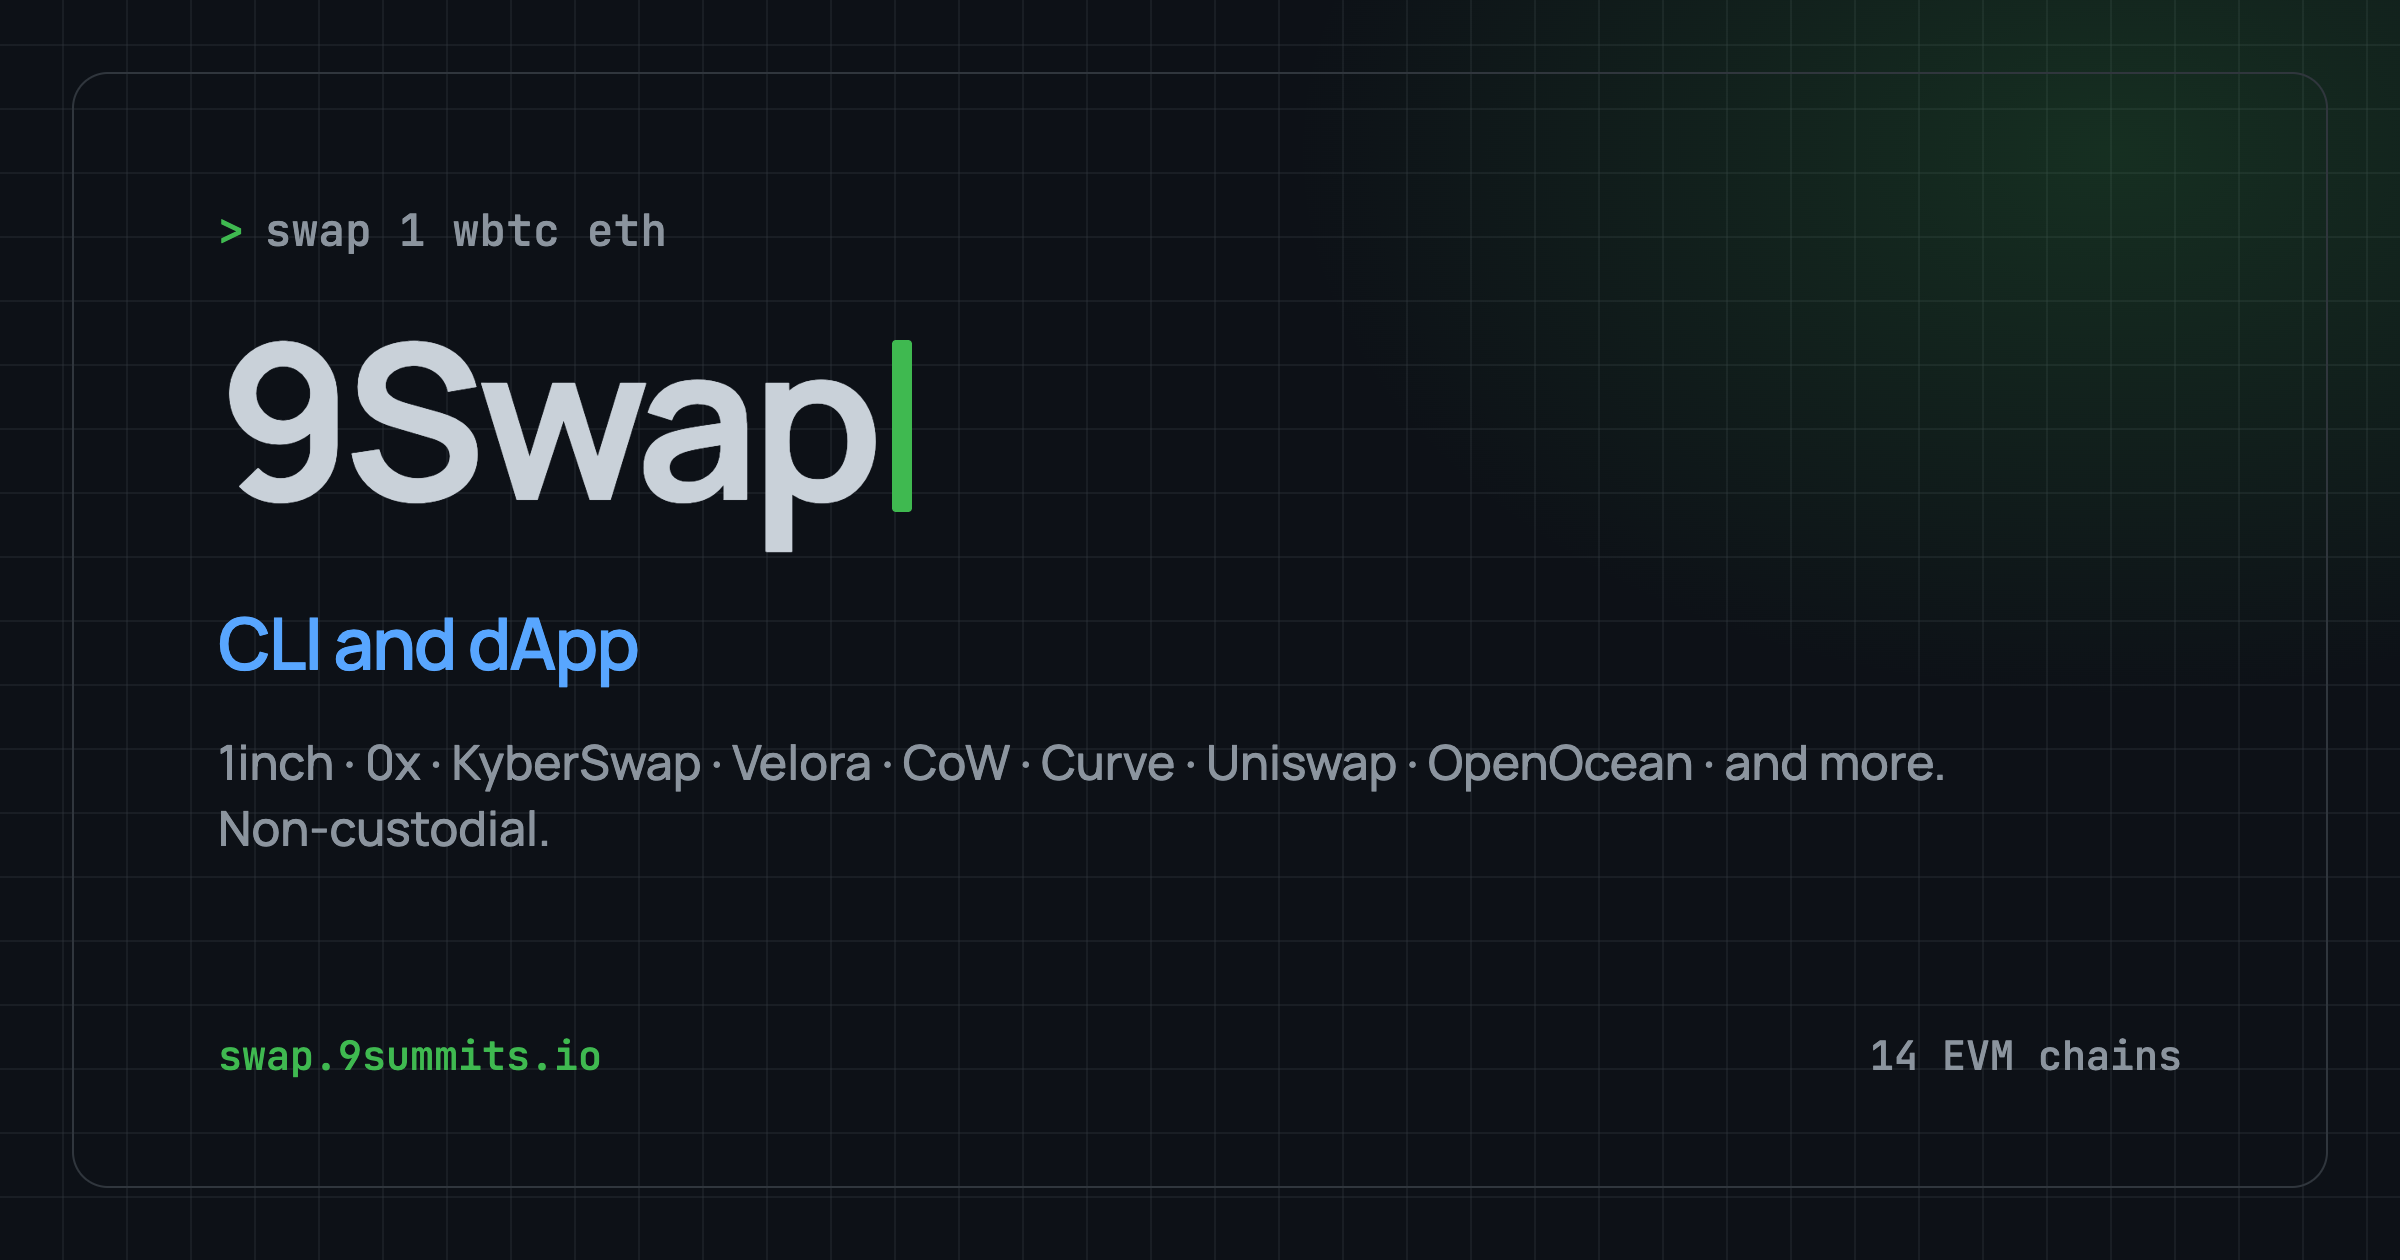
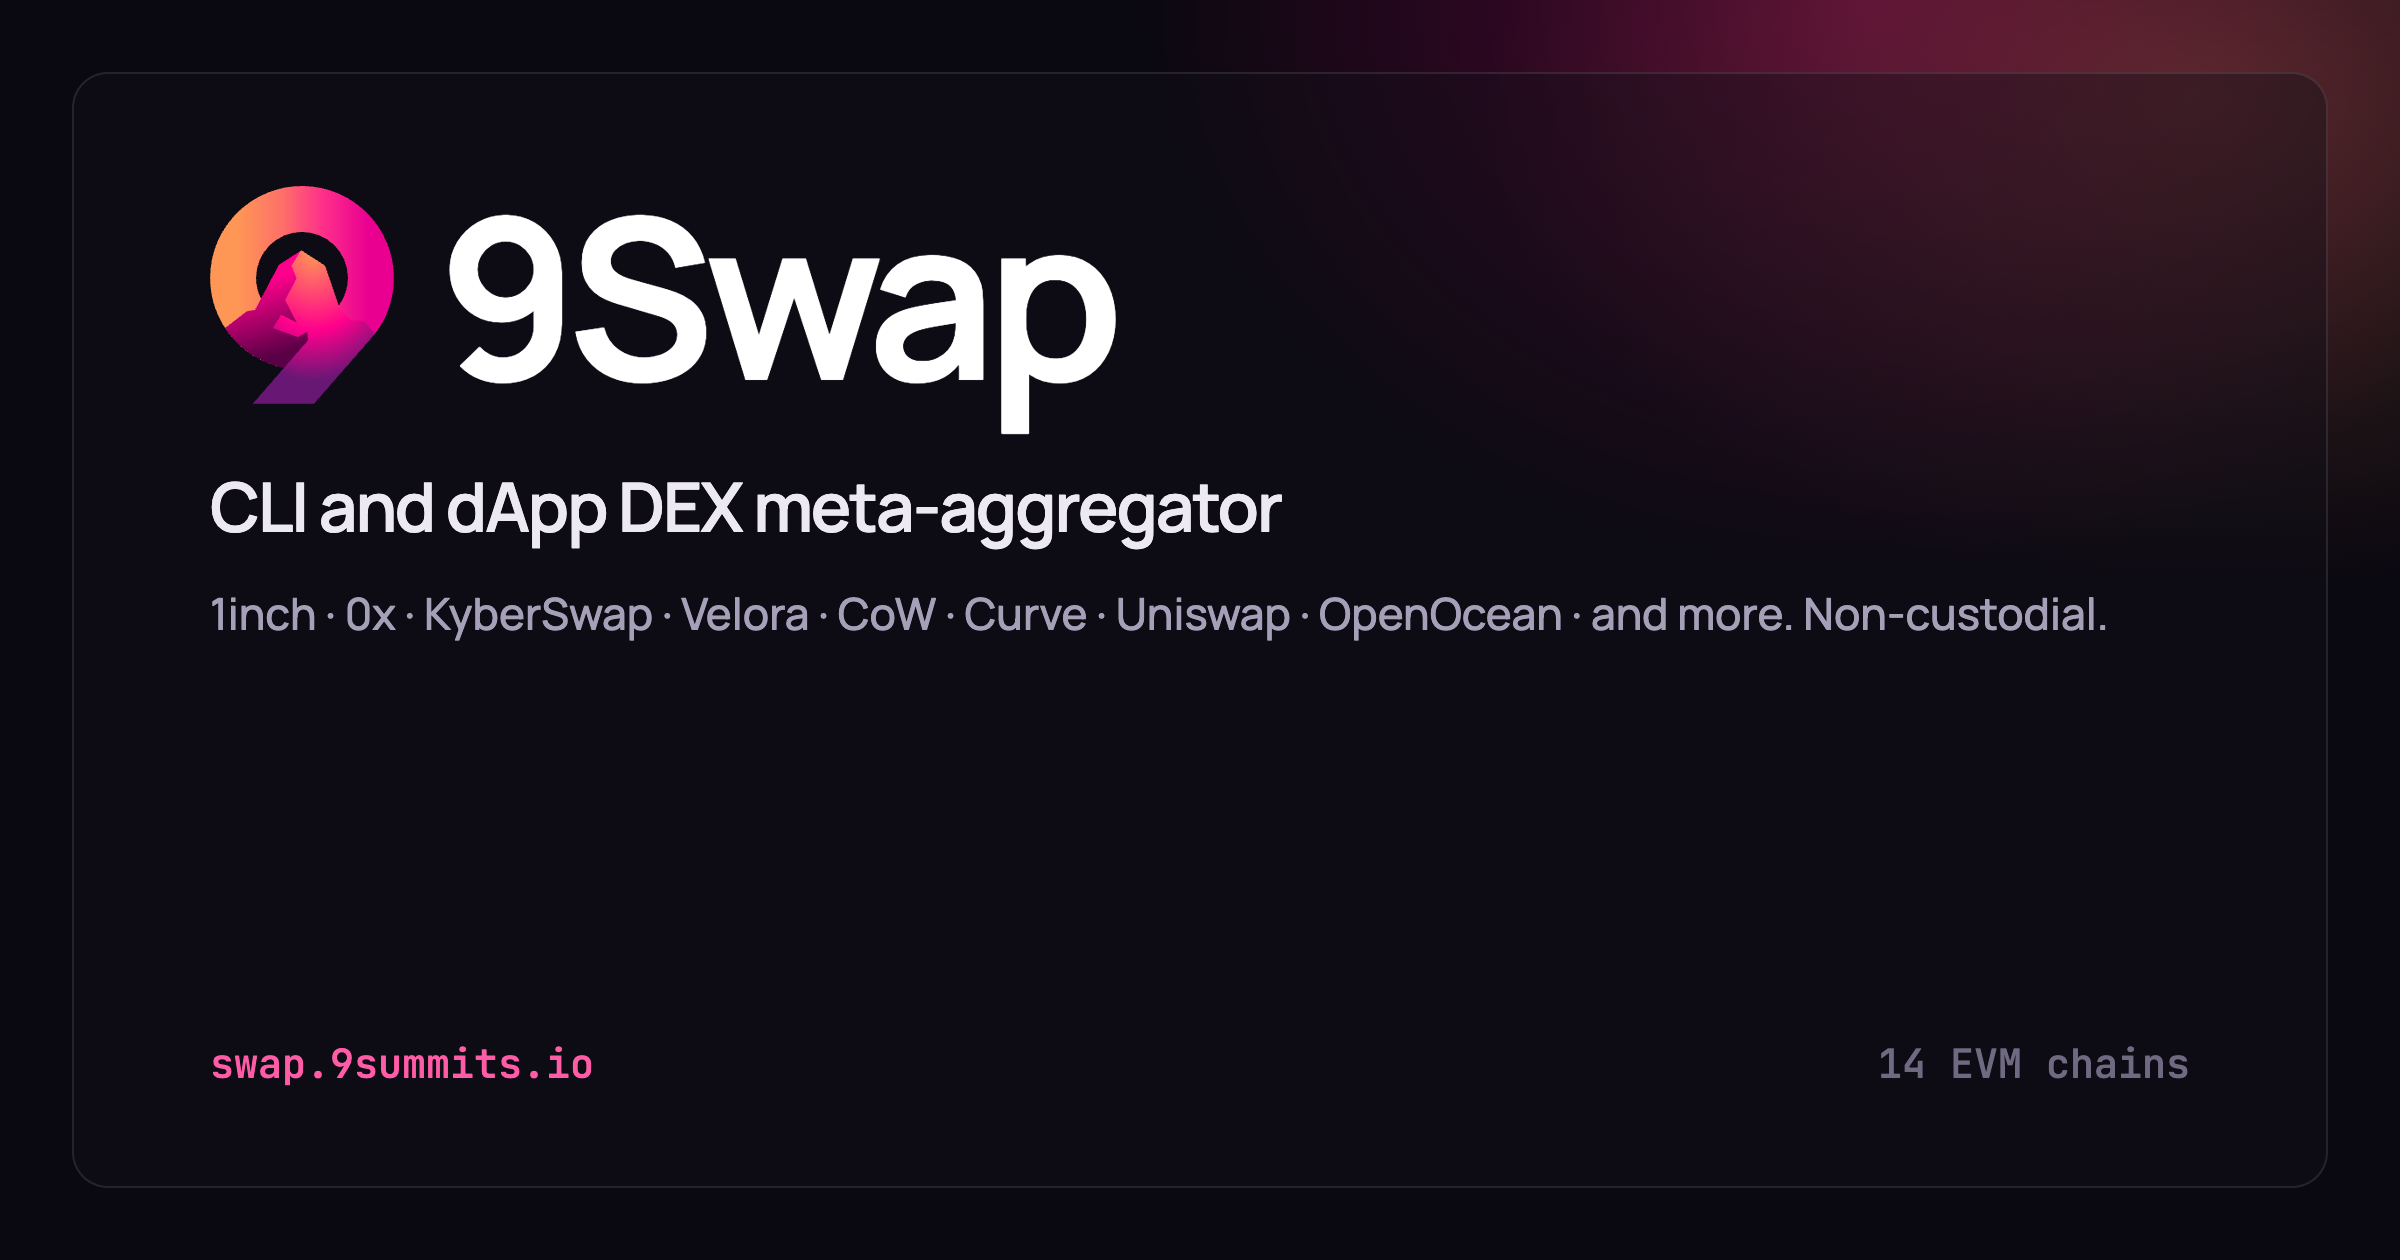
fix(web): restyle Open Graph card for 9Swap
Drop the old GitHub-green CLI cursor treatment. The card now uses the 9Summits mark, 9Swap wordmark, and brand magenta/orange on the dApp ink surfaces.

diff --git a/scripts/og-card.html b/scripts/og-card.html
@@ -5,12 +5,6 @@
     <style>
       @font-face {
         font-family: "JetBrains Mono";
-        src: url("../web/src/ds/fonts/jetbrainsmono-700.woff2") format("woff2");
-        font-weight: 700;
-        font-style: normal;
-      }
-      @font-face {
-        font-family: "JetBrains Mono";
         src: url("../web/src/ds/fonts/jetbrainsmono-500.woff2") format("woff2");
         font-weight: 500;
         font-style: normal;
@@ -39,7 +33,7 @@
         width: 1200px;
         height: 630px;
         overflow: hidden;
-        background: #0d1117;
+        background: #0a0810;
       }
       .frame {
         box-sizing: border-box;
@@ -47,83 +41,56 @@
         height: 630px;
         padding: 36px;
         background:
-          radial-gradient(ellipse 55% 70% at 88% 12%, rgba(63, 185, 80, 0.18) 0%, transparent 62%),
-          repeating-linear-gradient(
-            0deg,
-            transparent 0,
-            transparent 31px,
-            rgba(48, 54, 61, 0.35) 31px,
-            rgba(48, 54, 61, 0.35) 32px
-          ),
-          repeating-linear-gradient(
-            90deg,
-            transparent 0,
-            transparent 31px,
-            rgba(48, 54, 61, 0.35) 31px,
-            rgba(48, 54, 61, 0.35) 32px
-          ),
-          #0d1117;
+          radial-gradient(ellipse 52% 68% at 92% 8%, rgba(255, 150, 85, 0.22) 0%, transparent 58%),
+          radial-gradient(ellipse 48% 72% at 78% 0%, rgba(255, 0, 140, 0.28) 0%, transparent 64%),
+          #0a0810;
       }
       .card {
         box-sizing: border-box;
         width: 100%;
         height: 100%;
-        border: 1px solid #30363d;
+        border: 1px solid rgba(255, 255, 255, 0.1);
         border-radius: 18px;
-        padding: 64px 72px 52px;
+        padding: 56px 68px 48px;
         display: flex;
         flex-direction: column;
+        background: rgba(17, 14, 24, 0.42);
       }
-      .prompt {
-        font-family: "JetBrains Mono", ui-monospace, monospace;
-        font-weight: 500;
-        font-size: 22px;
-        color: #8b949e;
-        letter-spacing: 0.01em;
-      }
-      .prompt .gt {
-        color: #3fb950;
-        margin-right: 10px;
-      }
-      .word {
-        margin: 28px 0 0;
+      .brand {
         display: flex;
         align-items: center;
-        gap: 8px;
+        gap: 22px;
+      }
+      .mark {
+        flex: none;
+        display: block;
+        width: 92px;
+        height: 109px;
+      }
+      .word {
         font-family: "Manrope", system-ui, sans-serif;
         font-weight: 700;
-        font-size: 108px;
-        line-height: 0.95;
-        letter-spacing: -0.04em;
-        color: #c9d1d9;
-      }
-      .cursor {
-        width: 10px;
-        height: 86px;
-        background: #3fb950;
-        border-radius: 2px;
-        margin-top: 8px;
+        font-size: 112px;
+        line-height: 0.92;
+        letter-spacing: -0.045em;
+        color: #ffffff;
       }
       .lead {
-        margin: 36px 0 0;
+        margin: 28px 0 0;
         font-family: "Manrope", system-ui, sans-serif;
         font-weight: 600;
-        font-size: 36px;
+        font-size: 34px;
         letter-spacing: -0.03em;
-        color: #c9d1d9;
-      }
-      .lead em {
-        font-style: normal;
-        color: #58a6ff;
+        color: #ece9f3;
       }
       .venues {
-        margin: 18px 0 0;
+        margin: 16px 0 0;
         max-width: 980px;
         font-family: "Manrope", system-ui, sans-serif;
         font-weight: 500;
-        font-size: 24px;
+        font-size: 22px;
         line-height: 1.4;
-        color: #8b949e;
+        color: #a59fb8;
       }
       .nowrap {
         white-space: nowrap;
@@ -138,19 +105,68 @@
         font-size: 20px;
       }
       .host {
-        color: #3fb950;
+        color: #ff5ca8;
       }
       .meta {
-        color: #8b949e;
+        color: #6f6982;
       }
     </style>
   </head>
   <body>
     <div class="frame">
       <div class="card">
-        <div class="prompt"><span class="gt">&gt;</span>swap 1 wbtc eth</div>
-        <div class="word">9Swap<span class="cursor"></span></div>
-        <div class="lead"><em>CLI and dApp</em></div>
+        <div class="brand">
+          <svg
+            class="mark"
+            viewBox="0 0 145 172"
+            xmlns="http://www.w3.org/2000/svg"
+            aria-hidden="true"
+          >
+            <defs>
+              <linearGradient id="og9_body" x1="124.5" y1="85.9382" x2="22.5" y2="85.9382" gradientUnits="userSpaceOnUse">
+                <stop stop-color="#E90091" />
+                <stop offset="0.346154" stop-color="#FE2F8A" />
+                <stop offset="0.5" stop-color="#FE4D7A" />
+                <stop offset="0.65" stop-color="#FE6E6A" />
+                <stop offset="1" stop-color="#FE9655" />
+              </linearGradient>
+              <linearGradient id="og9_left" x1="40.2994" y1="75.029" x2="56.7994" y2="132.529" gradientUnits="userSpaceOnUse">
+                <stop stop-color="#FF008C" />
+                <stop offset="1" stop-color="#590046" />
+              </linearGradient>
+              <radialGradient
+                id="og9_right"
+                cx="0"
+                cy="0"
+                r="1"
+                gradientUnits="userSpaceOnUse"
+                gradientTransform="translate(81.2994 51.0289) rotate(90) scale(102.5 81.4445)"
+              >
+                <stop stop-color="#FF9B54" />
+                <stop offset="0.61407" stop-color="#FF008C" />
+                <stop offset="1" stop-color="#681775" />
+              </radialGradient>
+            </defs>
+            <path
+              fill-rule="evenodd"
+              clip-rule="evenodd"
+              d="M72.4936 0C112.516 0 145 32.4852 145 72.4976C145 89.185 139.35 104.563 129.859 116.822L129.861 116.824C128.531 118.541 127.126 120.198 125.65 121.788L81.9056 171.875H81.9007L81.8997 171.876H33.5687L58.2222 143.588C25.0367 136.951 0 107.625 0 72.4976C0 32.4852 32.4838 0 72.4936 0ZM101.414 94.3581L90.8001 63.0004L72.0384 50.7699L54.2474 62.3285L40.1488 88.8652C37.6534 83.9473 36.2466 78.3854 36.2466 72.4976C36.2466 52.4914 52.4887 36.2481 72.4936 36.2481C92.5113 36.2481 108.753 52.4914 108.753 72.4976C108.753 80.7049 106.02 88.279 101.414 94.3581Z"
+              fill="url(#og9_body)"
+            />
+            <path
+              fill-rule="evenodd"
+              clip-rule="evenodd"
+              d="M58.2229 143.587C57.5595 143.454 56.8995 143.312 56.243 143.162C37.6943 138.904 21.8518 127.522 11.7542 112.056L29.0355 98.8175L35.4162 97.7726L54.2469 62.3284L71.7221 50.8238L64.1474 62.9013L68.279 72.8385L59.2229 89.9917L68.279 107.748L56.0182 101.75L49.492 112.1L69.1223 119.155L76.5265 115.211L77.4362 121.543L58.2229 143.587ZM71.9203 50.6932L71.9993 50.6416L72.0383 50.7699L71.9203 50.6932Z"
+              fill="url(#og9_left)"
+            />
+            <path
+              d="M71.7235 50.8234L71.9228 50.6929L90.7966 62.9009L101.799 95.5289L110.98 105.768L121.842 106.467L129.86 116.824C128.512 118.568 127.08 120.25 125.582 121.864L81.9021 171.876H33.5701L77.4375 121.542L76.5252 115.211L69.1196 119.155L49.4908 112.1L56.0217 101.749L68.2799 107.748L59.2237 89.9922L68.2799 72.8386L64.1474 62.9009L71.7235 50.8234Z"
+              fill="url(#og9_right)"
+            />
+          </svg>
+          <span class="word">9Swap</span>
+        </div>
+        <div class="lead">CLI and dApp DEX meta-aggregator</div>
         <div class="venues">
           1inch · 0x · KyberSwap · Velora · CoW · Curve · Uniswap · OpenOcean · and more.
           <span class="nowrap">Non-custodial.</span>

diff --git a/web/index.html b/web/index.html
@@ -44,7 +44,7 @@
       property="og:description"
       content="Non-custodial CLI and dApp. Compare quotes from KyberSwap, Velora, 0x, 1inch, Curve, Uniswap, OpenOcean, CoW and more across 14 EVM chains."
     />
-    <meta property="og:image" content="https://swap.9summits.io/og.png?v=3" />
+    <meta property="og:image" content="https://swap.9summits.io/og.png?v=4" />
     <meta property="og:image:width" content="1200" />
     <meta property="og:image:height" content="630" />
     <meta property="og:image:alt" content="9Swap: non-custodial CLI and dApp DEX meta-aggregator" />
@@ -56,7 +56,7 @@
       name="twitter:description"
       content="Non-custodial CLI and dApp. Compare quotes from KyberSwap, Velora, 0x, 1inch, Curve, Uniswap, OpenOcean, CoW and more across 14 EVM chains."
     />
-    <meta name="twitter:image" content="https://swap.9summits.io/og.png?v=3" />
+    <meta name="twitter:image" content="https://swap.9summits.io/og.png?v=4" />
 
     <!-- Favicon inlined as a data URI so vite-singlefile keeps it in
          the embedded HTML (public/ files would copy as separate
